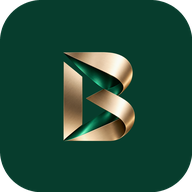
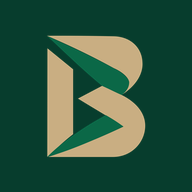
chore: reconcile canonical Brandopolis runtime identity
- Every served identity file is a byte-identical copy of the Brand Master (logo, Ribbon B symbol, favicon,
  favicon-32, apple-touch 180, PWA 192/512, unmodified canonical manifest at /brand/app-icon-*).
- Deprecated polygonal symbol PNGs, legacy ui icons and flow images removed from runtime; unused
  /brand/flow.webp route removed.
- .gitattributes (-text) scoped to the Brand Master and public/brand so SHA-256 validation survives checkout.
- tests/brand-runtime.test.ts: byte identity, manifest icons served, no deprecated asset or design source served.
- Asset loader keeps files in memory with a strong ETag.

diff --git a/src/transport/assets.ts b/src/transport/assets.ts
@@ -1,4 +1,5 @@
 import { readFileSync } from 'node:fs';
+import { createHash } from 'node:crypto';
 // Static assets served by both DEMO and PILOT. Paths are relative to the repository root (process cwd).
 // Only runtime-selected files are listed; the full design package stays under design/ and is never served.
 // Mapping and rationale: design/brandopolis-ui/FRONTEND_ASSET_MAPPING.md
@@ -7,15 +8,17 @@ export const runtimeAssets={
   '/app.js':['src/transport/public/app.js','text/javascript; charset=utf-8'],
   '/style.css':['src/transport/public/style.css','text/css; charset=utf-8'],
   '/tokens.css':['design/brandopolis-ui/tokens/brandopolis.tokens.css','text/css; charset=utf-8'],
+  // Identity: byte-identical copies of the canonical Brand Master (design/brandopolis-ui/brand-master/
+  // final-canonical-2026-09-25); tests/brand-runtime.test.ts fails on any drift.
   '/brand/logo.svg':['public/brand/logo/brandopolis-logo-horizontal.svg','image/svg+xml'],
   '/brand/symbol.svg':['public/brand/symbols/brandopolis-symbol.svg','image/svg+xml'],
-  '/brand/flow.webp':['public/brand/flow/brand-flow-light.webp','image/webp'],
   '/favicon.ico':['public/brand/ui/favicon.ico','image/x-icon'],
+  '/brand/favicon-32.png':['public/brand/ui/favicon-32.png','image/png'],
+  '/brand/apple-touch-icon.png':['public/brand/ui/apple-touch-icon.png','image/png'],
+  // The canonical manifest references exactly /brand/app-icon-192.png and /brand/app-icon-512.png.
   '/site.webmanifest':['public/brand/ui/site.webmanifest','application/manifest+json'],
-  '/brand/ui/icon-32.png':['public/brand/ui/icon-32.png','image/png'],
-  '/brand/ui/apple-touch-icon.png':['public/brand/ui/apple-touch-icon.png','image/png'],
-  '/brand/ui/app-icon-192.png':['public/brand/ui/app-icon-192.png','image/png'],
-  '/brand/ui/app-icon-512.png':['public/brand/ui/app-icon-512.png','image/png'],
+  '/brand/app-icon-192.png':['public/brand/ui/app-icon-192.png','image/png'],
+  '/brand/app-icon-512.png':['public/brand/ui/app-icon-512.png','image/png'],
   '/brand/web/hero-signature-desktop.webp':['public/brand/web/hero-signature-desktop.webp','image/webp'],
   '/brand/web/hero-signature-tablet.webp':['public/brand/web/hero-signature-tablet.webp','image/webp'],
   '/brand/web/hero-signature-mobile.webp':['public/brand/web/hero-signature-mobile.webp','image/webp'],
@@ -33,7 +36,11 @@ export function assetPath(path:string):keyof typeof runtimeAssets|undefined {
   const key=views.has(path)?'/':path;
   return Object.hasOwn(runtimeAssets,key)?key as keyof typeof runtimeAssets:undefined;
 }
-export function loadAsset(path:string):{content:Buffer;type:string}|undefined {
+// Files are immutable for the life of a release: read once, keep in memory with a strong validator.
+const cache=new Map<string,{content:Buffer;type:string;etag:string}>();
+export function loadAsset(path:string):{content:Buffer;type:string;etag:string}|undefined {
   const key=assetPath(path);if(!key)return undefined;
-  const [file,type]=runtimeAssets[key];return {content:readFileSync(file),type};
+  let entry=cache.get(key);
+  if(!entry){const [file,type]=runtimeAssets[key],content=readFileSync(file);entry={content,type,etag:`"${createHash('sha256').update(content).digest('base64url').slice(0,27)}"`};cache.set(key,entry);}
+  return entry;
 }

diff --git a/tests/brand-runtime.test.ts b/tests/brand-runtime.test.ts
@@ -1,0 +1,42 @@
+import { describe,it,expect } from 'vitest';
+import { readFileSync,existsSync } from 'node:fs';
+import { createHash } from 'node:crypto';
+import { runtimeAssets,loadAsset } from '../src/transport/assets.js';
+// Runtime identity must be the approved Brand Master, byte for byte; legacy polygonal assets must not be served.
+const master='design/brandopolis-ui/brand-master/final-canonical-2026-09-25';
+const sha=(p:string)=>createHash('sha256').update(readFileSync(p)).digest('hex');
+const canonical:Record<string,string>={
+  '/brand/logo.svg':`${master}/01_master/brandopolis-logo-horizontal-master.svg`,
+  '/brand/symbol.svg':`${master}/01_master/brandopolis-symbol-master.svg`,
+  '/favicon.ico':`${master}/02_runtime/favicon/favicon.ico`,
+  '/brand/favicon-32.png':`${master}/02_runtime/favicon/favicon-32.png`,
+  '/brand/apple-touch-icon.png':`${master}/02_runtime/app-icons/app-icon-180.png`,
+  '/brand/app-icon-192.png':`${master}/02_runtime/app-icons/app-icon-192.png`,
+  '/brand/app-icon-512.png':`${master}/02_runtime/app-icons/app-icon-512.png`,
+  '/site.webmanifest':`${master}/02_runtime/manifest/site.webmanifest`
+};
+describe('canonical brand runtime',()=>{
+  it('every identity route serves a byte-identical copy of the Brand Master',()=>{
+    for(const [route,source] of Object.entries(canonical)){
+      const served=runtimeAssets[route as keyof typeof runtimeAssets];expect(served,route).toBeDefined();
+      expect(sha(served[0]),route).toBe(sha(source));
+    }
+  });
+  it('the manifest icons resolve to served canonical icons',()=>{
+    const manifest=JSON.parse(loadAsset('/site.webmanifest')!.content.toString('utf8')) as {icons:{src:string;sizes:string}[]};
+    expect(manifest.icons.map(i=>i.sizes)).toEqual(['192x192','512x512']);
+    for(const icon of manifest.icons)expect(loadAsset(icon.src),icon.src).toBeDefined();
+  });
+  it('no legacy polygonal or deprecated brand file is served',()=>{
+    const deprecated=JSON.parse(readFileSync(`${master}/BRAND_ASSET_REPLACEMENT_MAP.json`,'utf8')) as {legacyAsset:string}[];
+    const legacy=new Map(deprecated.filter(d=>existsSync(d.legacyAsset)).map(d=>[d.legacyAsset,sha(d.legacyAsset)]));
+    for(const [route,[file]] of Object.entries(runtimeAssets)){
+      // A legacy path may remain only if its bytes were replaced by the canonical file.
+      if(legacy.has(file))expect(Object.values(canonical).map(sha),route).toContain(legacy.get(file));
+    }
+    expect(Object.keys(runtimeAssets).some(r=>/brandopolis-symbol-(black|emerald|gold|white|flat)\.png|\/brand\/flow\.webp|\/brand\/ui\/icon-/.test(r))).toBe(false);
+  });
+  it('design sources and boards are never served',()=>{
+    for(const path of ['/design/brandopolis-ui/brand-master/final-canonical-2026-09-25/BRANDOPOLIS_CANONICAL_BRAND_ASSET_BOARD.png','/brand/brandopolis-symbol-premium-4096.webp','/12_canonical_reference/brandopolis-canonical-product-vision-v1.png','/brand/flow.webp','/brand/ui/icon-32.png'])expect(loadAsset(path),path).toBeUndefined();
+  });
+});
